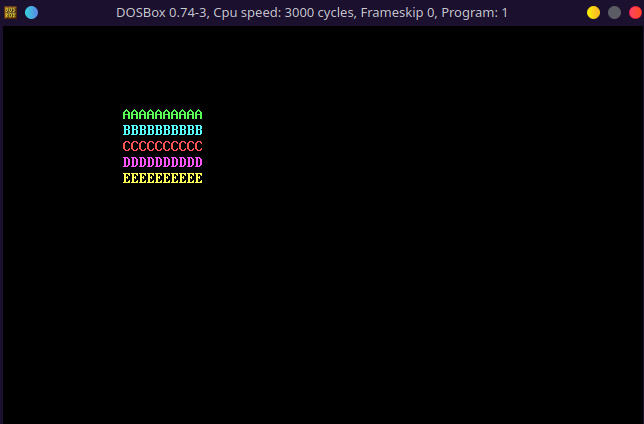
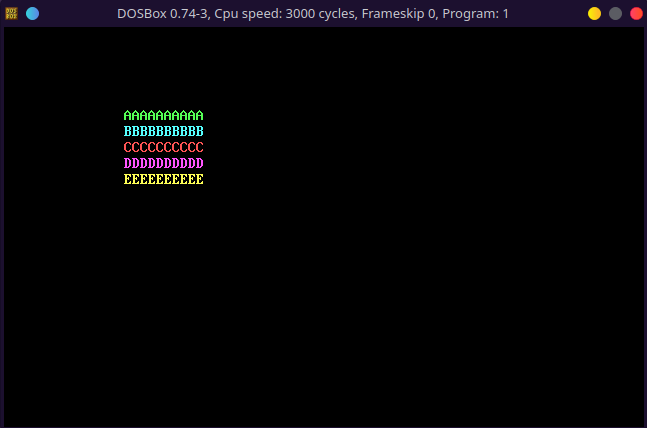
fix (lab5): direct video memory access

diff --git a/lab5/lab5.tex b/lab5/lab5.tex
@@ -129,15 +129,16 @@
 
 \section{Алгоритм программы}
 \begin{enumerate}
-	\item Определить в сегменте данных переменные row (номер строки), col (номер столбца), mode (для сохранения режима).
-	\item Определить процедуру set\_mode, которая устанавливает новый режим с помощью BIOS"=функции 10h, а также процедуру ret\_mode, которая после выполнения программы вернёт нас к исходному видеорежиму.
-	\item Определить процедуру cursor для установки курсора в нужную позицию.
-	\item Определить продедуру clear для прокрутки всего экрана вверх (его очистки).
-	\item Определить процедуру print для вывода ASCII"=символа.
-	\item Вызвать процедуры clear и set\_mode.
-	\item Записать в AL ASCII"=код первого символа (41h "--- A), а в BL занести цвет первого ряда символов (0Ah "--- зелёный). Инициализовать переменную row значением 5.
-	\item Организовать внешний цикл с меткой rows. Условие завершения цикла "--- когда row станет равен 10, т.е. были выведены 5 рядов. Внутри внешнего цикла увеличивать на 1 row, AL и BL для изменения номера ряда, символа и цвета. Помимо этого каждую итерацию внешнего цикла выставлять переменную col равной 15.
-	\item Организовать внутренний цикл с меткой cols. Условие завершения цикла "--- когда col станет равен 25, т.е. были выведены $25-15=10$ рядов. Внутри вложенного цикла вызываем процедуру cursor для того, чтобы изменить положение курсора, процедуру print для печати символа, а также увеличиваем col на 1.
+	\item Определить в сегменте данных переменную mode (для сохранения режима).
+	\item Определить процедуру set\_mode, которая устанавливает новый режим и активную страницу с помощью BIOS"=функций, а также процедуру ret\_mode, которая после выполнения программы вернёт нас к исходному видеорежиму.
+	\item Определить процедуру B10DISPLAY:
+	\begin{enumerate}
+		\item Добавить в стек все регистры общего назначения.
+		\item Записать в AL ASCII"=код первого символа (41h "--- A), а в AH занести цвет первого ряда символов (0Ah "--- зелёный). Занести в DI адрес начального смещения в видеопамяти (позиция 5:15 $\rightarrow((5 * 80) + 15) * 2 = 830$).
+		\item Занести в CX количество строк (5). Организовать внешний цикл с меткой rows. Внутри внешнего цикла увеличивать на 1 AL и BL для изменения символа и цвета, а к DI прибавлять 140 ($(80 - 10) * 2 = 140$) для перехода к следующей строке. Помимо этого каждую итерацию внешнего цикла сохранять CX в стеке, чтобы затем использовать этот регистр во внутреннем цикле, занося в него на каждой итерации 10 (количество столбцов).
+		\item Организовать внутренний цикл с меткой cols. Внутри цикла необходимо поместить содержимое AL (код символа) в первый, а AH (атрибут) "--- во второй байт видеостраницы. К следующему столбцу переходим, прибавляя к DI 2.
+		\item Достать из стека все регистры общего назначения.
+	\end{enumerate}
 	\item Выполнить запрос на ввод символа с клавиатуры, а затем вызвать процедуру ret\_mode, чтобы программа перешла в исходный режим и завершилась только по нажатию клавиши.
 \end{enumerate}
 
